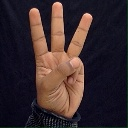
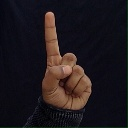
web app editing

diff --git a/isl_web_app/templates/index.html b/isl_web_app/templates/index.html
@@ -10,7 +10,7 @@
     <div class="container">
         <!-- Header -->
         <header class="header">
-            <h1>✋ ISL Letter Recognition</h1>
+            <h1>ISL Letter Recognition with keypoint transfer learning</h1>
             <p>Upload an image of an Indian Sign Language letter and the model will recognize it</p>
             <nav class="nav-links">
                 <a href="/">Upload</a> |
